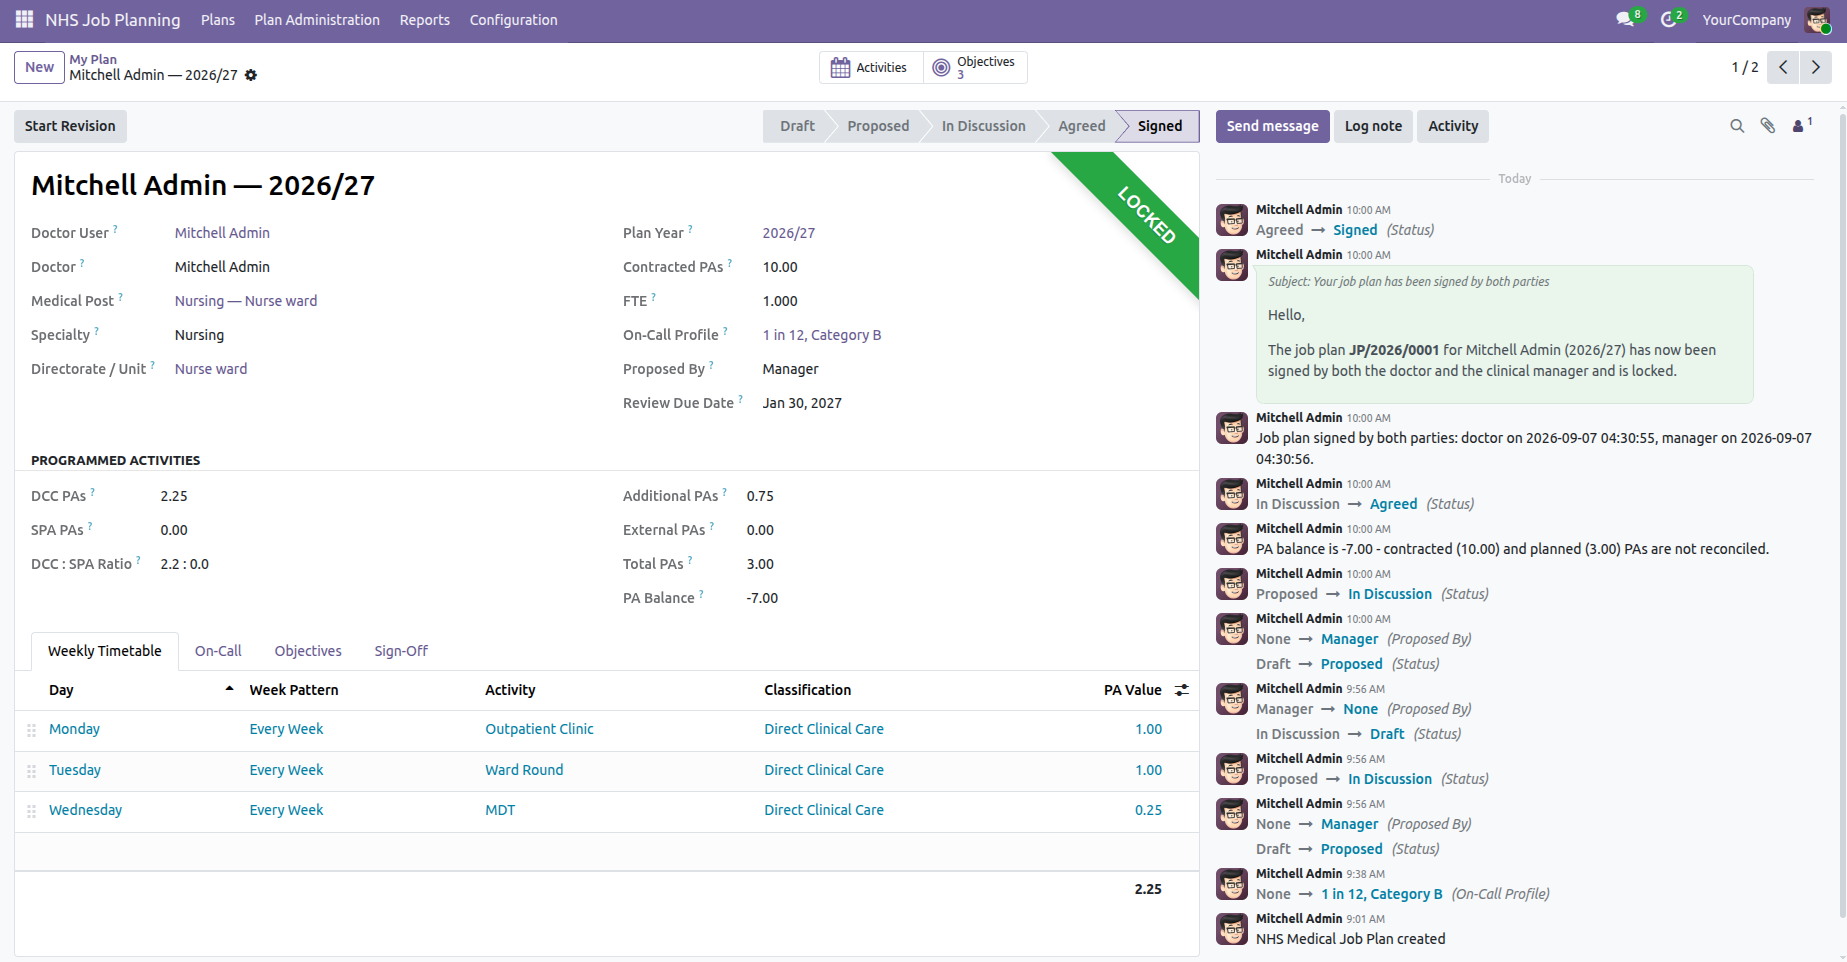
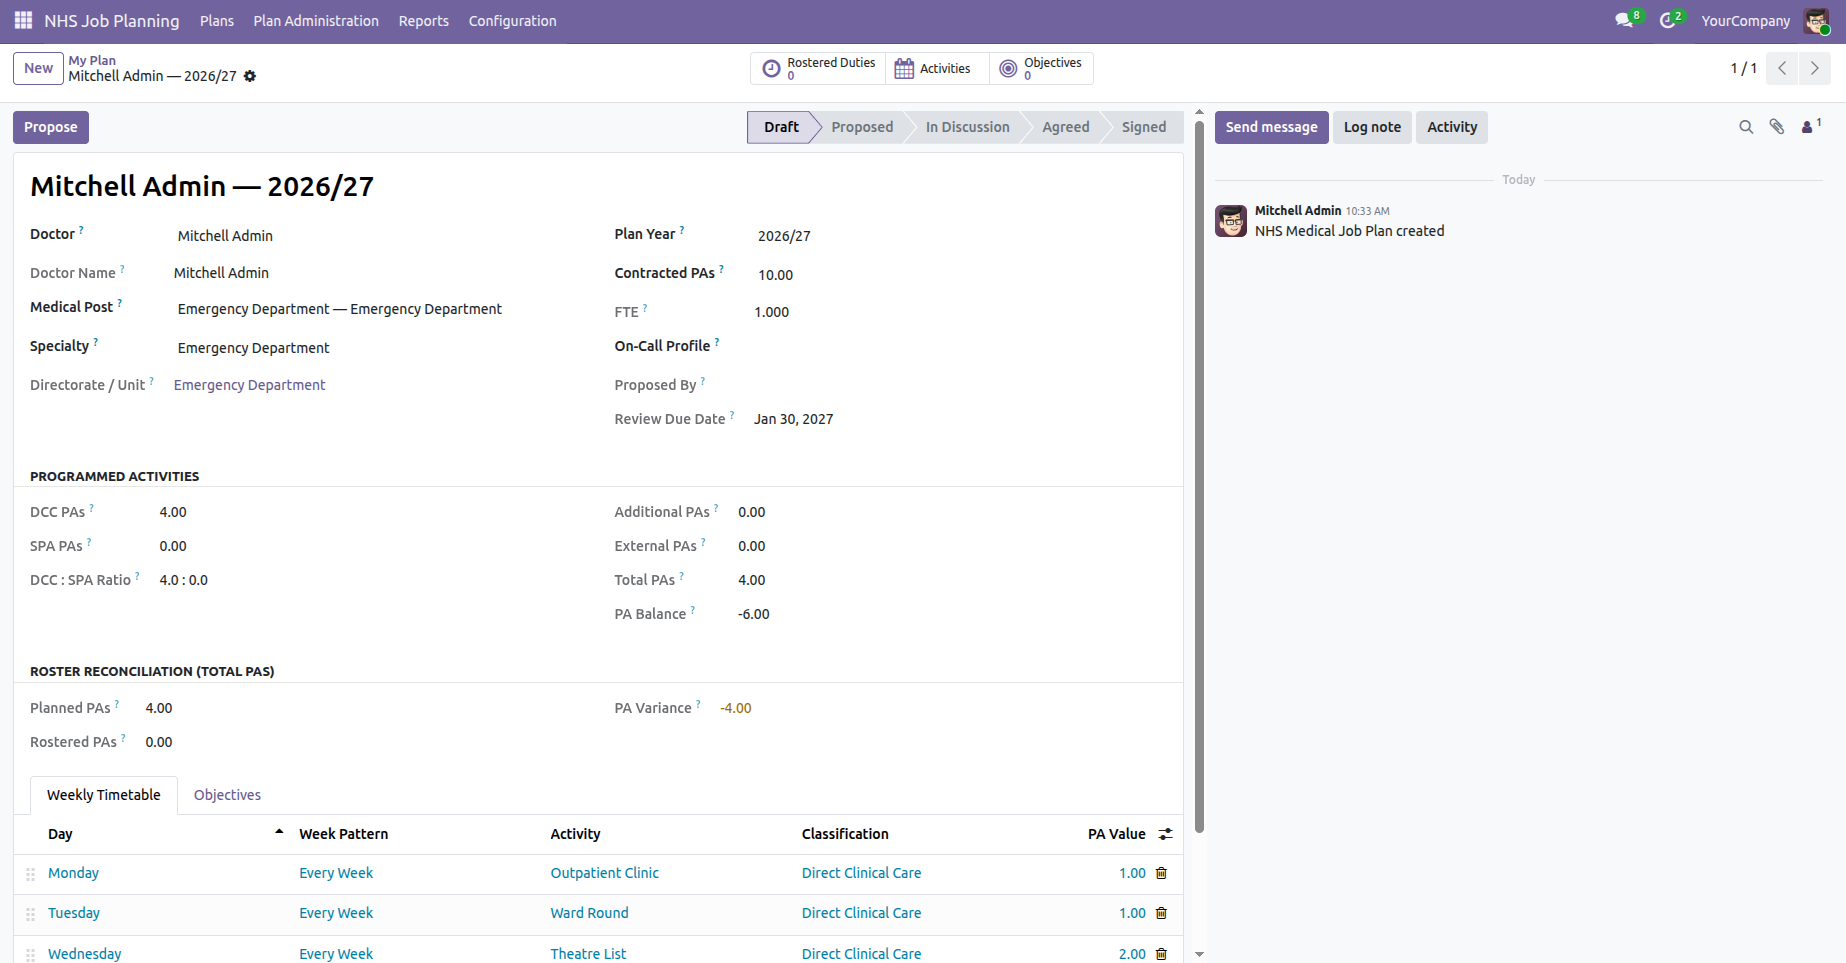
fixed job plan creating time issue and module testing completed

diff --git a/NHS/odoo_nhs_job_planning/static/description/index.html b/NHS/odoo_nhs_job_planning/static/description/index.html
@@ -439,22 +439,7 @@
                             <img src="./assets/screenshots/4.png" alt="" style="max-width: 100%;height: auto;">
                         </div>
 
-                        <h2 class="mainhead text-center mb-2 mt-5"
-                            style="font-size: 2rem;font-weight: 700;color: black;">On-Call
-                            <span> Commitment</span>
-                        </h2>
-                        <div class="para"
-                            style="max-width: 80%;text-align: center;margin: auto;font-size: 18px;margin-bottom: 2rem;color: #6b7280;">
-                            Link a configurable On-Call Profile to the plan to capture this doctor's rota frequency
-    and category, automatically rolling predictable and unpredictable
-    on-call PAs into the plan's Additional PAs total.
-                        </div>
 
-                        <div style="border-radius: 10px;
-                        overflow: hidden;
-                        border: 2px solid #e7e7e7;">
-                            <img src="./assets/screenshots/5.png" alt="" style="max-width: 100%;height: auto;">
-                        </div>
 
                         <h2 class="mainhead text-center mb-2 mt-5"
                             style="font-size: 2rem;font-weight: 700;color: black;">Personal

diff --git a/NHS/odoo_nhs_job_planning/models/nhs_job_plan_objective.py b/NHS/odoo_nhs_job_planning/models/nhs_job_plan_objective.py
@@ -116,37 +116,59 @@ class NhsJobPlanObjective(models.Model):
         help="Notes recorded at annual review."
     )
 
-    @api.model_create_multi
-    def create(self, vals_list):
-        """Create a new objective."""
-        return super().create(vals_list)
+    @api.constrains('plan_id')
+    def _check_plan_id_access(self):
+        """Belt-and-braces ownership check: perm_create is disabled on the
+        doctor/manager 'own record'/'own directorate' ir.rules for this model
+        (see nhs_job_planning_security.xml), so creation isn't
+        domain-restricted on its own - this closes that gap the same way
+        nhs.job.plan.create()'s _check_creator_can_access() does for plans."""
+        user = self.env.user
+        if user.has_group('odoo_nhs_job_planning.group_nhs_jobplan_admin'):
+            return
+        is_doctor = user.has_group('odoo_nhs_job_planning.group_nhs_jobplan_doctor')
+        is_manager = user.has_group('odoo_nhs_job_planning.group_nhs_jobplan_manager')
+        for objective in self:
+            owns_as_doctor = is_doctor and objective.plan_id.member_id.user_id.id == user.id
+            owns_as_manager = is_manager and user in objective.plan_id.manager_ids
+            if not (owns_as_doctor or owns_as_manager):
+                raise ValidationError(
+                    "You cannot create or move an objective onto a job plan"
+                    " that is not your own.")
 
-    def write(self, vals):
-        """Update an existing objective."""
-        return super().write(vals)
+    def _set_status(self, status):
+        """Set status and, per the active field's documented behaviour,
+        archive the objective when (and only while) it is Achieved."""
+        self.write({'status': status, 'active': status != 'achieved'})
 
     def action_set_status_not_started(self):
         """Set status to not started."""
-        self.write({'status': 'not_started'})
+        self._set_status('not_started')
 
     def action_set_status_on_track(self):
         """Set status to on track."""
-        self.write({'status': 'on_track'})
+        self._set_status('on_track')
 
     def action_set_status_at_risk(self):
         """Set status to at risk."""
-        self.write({'status': 'at_risk'})
+        self._set_status('at_risk')
 
     def action_set_status_achieved(self):
         """Set status to achieved."""
-        self.write({'status': 'achieved'})
+        self._set_status('achieved')
 
     def action_set_status_not_achieved(self):
         """Set status to not achieved."""
-        self.write({'status': 'not_achieved'})
+        self._set_status('not_achieved')
 
     @api.constrains('target_date')
     def _check_target_date(self):
+        # Skip during system-driven copies (in-year revision, plan-year
+        # rollover): these legitimately carry an already-past target_date
+        # across onto the new draft plan, they're not a user mistyping a date.
+        if self.env.context.get('nhs_jobplan_revision_apply') \
+                or self.env.context.get('nhs_jobplan_skip_year_state_check'):
+            return
         today = fields.Date.context_today(self)
         for record in self:
             if record.target_date and record.target_date < today:

diff --git a/NHS/odoo_nhs_job_planning/models/nhs_job_plan.py b/NHS/odoo_nhs_job_planning/models/nhs_job_plan.py
@@ -80,12 +80,6 @@ class NhsJobPlan(models.Model):
         default=_default_member_id,
         help="The doctor's workforce member record - single source of identity for the plan."
     )
-    doctor_user_id = fields.Many2one(
-        'res.users',
-        string='Legacy Doctor User',
-        required=False,
-        help="Deprecated. Use member_id instead."
-    )
     doctor_name = fields.Char(
         string='Doctor Name',
         related='member_id.name',
@@ -479,9 +473,6 @@ class NhsJobPlan(models.Model):
             plan_domains[plan.id] = domain
             or_domains.append(domain)
 
-        # sudo(): To accurately calculate rostered metrics for a plan, we must fetch
-        # all assigned duties, even if the current user doesn't have read access to
-        # all duty assignment records across the system.
         assignments = self.env['nhs.duty.assignment'].sudo()
         if or_domains:
             assignments = assignments.search(Domain.OR(or_domains))
@@ -502,9 +493,6 @@ class NhsJobPlan(models.Model):
             plan.rostered_data_available = True
             plan.rostered_duties_count = len(matched)
             plan.rostered_pas = rostered_pas
-            # Round the variance itself (not just rostered_pas) so that two
-            # amounts that display as equal don't fail an exact float ==
-            # comparison in the view's decoration due to residual precision.
             plan.rostered_pa_variance = float_round(rostered_pas - plan.total_pas, precision_digits=2)
 
     def action_view_rostered_duties(self):
@@ -518,9 +506,6 @@ class NhsJobPlan(models.Model):
 
         domain = self._build_rostered_duties_domain(
             self.member_id.id, self.plan_year_id.date_start, self.plan_year_id.date_end, self.org_unit_id.id)
-        
-        # We evaluate the domain with sudo() to fetch the IDs directly, so the 
-        # client view doesn't try to traverse duty_id.unit_id which causes access errors.
         matched_assignments = self.env['nhs.duty.assignment'].sudo().search(domain)
         
         return {

diff --git a/NHS/odoo_nhs_job_planning/models/nhs_job_plan_activity.py b/NHS/odoo_nhs_job_planning/models/nhs_job_plan_activity.py
@@ -189,3 +189,23 @@ class NhsJobPlanActivity(models.Model):
         for line in self:
             if line.time_start and line.time_end and line.time_end <= line.time_start:
                 raise ValidationError('End time must be after start time on a timetable line!')
+
+    @api.constrains('plan_id')
+    def _check_plan_id_access(self):
+        """Belt-and-braces ownership check: perm_create is disabled on the
+        doctor/manager 'own record'/'own directorate' ir.rules for this model
+        (see nhs_job_planning_security.xml), so creation isn't
+        domain-restricted on its own - this closes that gap the same way
+        nhs.job.plan.create()'s _check_creator_can_access() does for plans."""
+        user = self.env.user
+        if user.has_group('odoo_nhs_job_planning.group_nhs_jobplan_admin'):
+            return
+        is_doctor = user.has_group('odoo_nhs_job_planning.group_nhs_jobplan_doctor')
+        is_manager = user.has_group('odoo_nhs_job_planning.group_nhs_jobplan_manager')
+        for line in self:
+            owns_as_doctor = is_doctor and line.plan_id.member_id.user_id.id == user.id
+            owns_as_manager = is_manager and user in line.plan_id.manager_ids
+            if not (owns_as_doctor or owns_as_manager):
+                raise ValidationError(
+                    "You cannot create or move a timetable activity onto a"
+                    " job plan that is not your own.")
